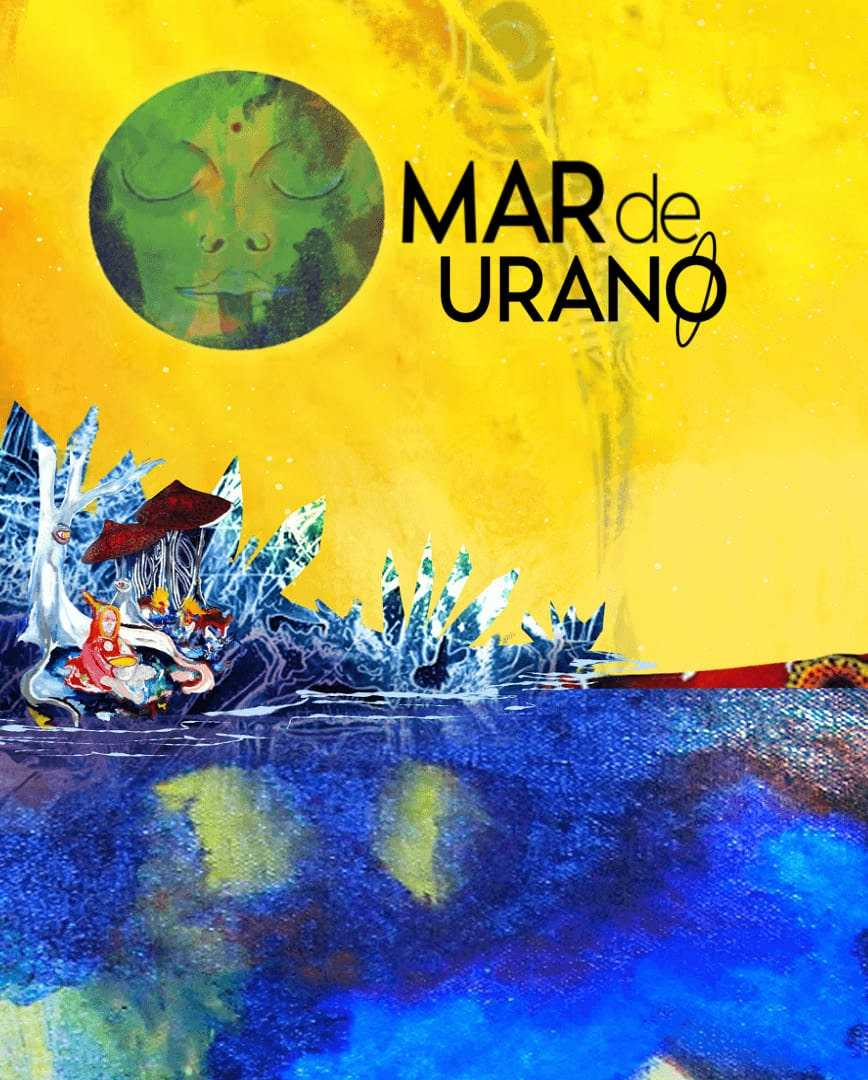
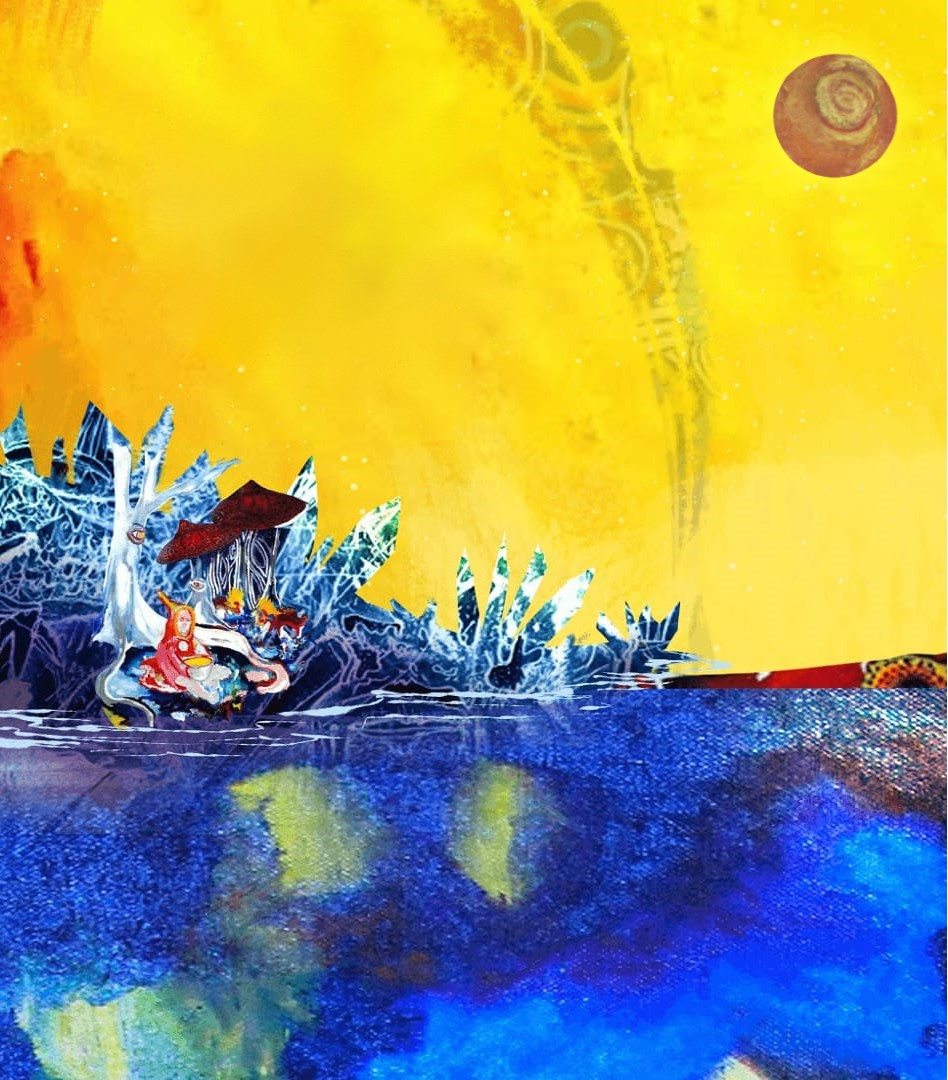
Cambios responsive landing

diff --git a/src/pages/index.js b/src/pages/index.js
@@ -17,6 +17,8 @@ export default function Index({ data }) {
   const diamonds = useMemo(() => get(landingPage, 'imageDiamonds.diamonds'));
   const imagesDiamonds = useMemo(() => get(landingPage, 'imageLandingArtDiamonds.images'));
 
+  // console.log(landingPage.landingLogoSmallWithWebP);
+
   // const supportedWebp = WebpIsSupported().then();
   const [supportedWebp, setSupportedWebp] = useState(false);
 
@@ -102,13 +104,14 @@ export default function Index({ data }) {
 
       <div className="landing-logo">
         <ImageRef src={images.landingLogo} alt="logo mar de urano" className="landing-logo-img" onLoad={onLoadImgages} onError={onLoadImgages} width="600" height="300" />
+        <ImageRef src={landingPage.landingLogoSmallWithWebP.webP.fluid.src} alt="logo mar de urano" className="landing-logo-small-img" onLoad={onLoadImgages} onError={onLoadImgages} />
       </div>
 
 
       <div className="link">
         {(promotion) &&
           <div className="promotion">
-            <ImageRef src={images.promotion} alt="instructions" className="promotion-img" onLoad={onLoadImgages} onError={onLoadImgages} width="300" height="208" />
+            <ImageRef src={images.promotion} alt="instructions" className="promotion-img" onLoad={onLoadImgages} onError={onLoadImgages} />
             <div className="arrow bounce">
               <i className="fa fa-arrow-down fa-2x"></i>
             </div>
@@ -285,6 +288,19 @@ query ImagesLanding {
           }
         }
         webP {
+          fluid(maxWidth: 500, quality: 100) {
+            src
+          }
+        }
+      }
+
+      landingLogoSmallWithWebP {
+        webP {
+          fluid(maxWidth: 400, quality: 100) {
+            src
+          }
+        }
+        originalImage {
           fluid(maxWidth: 500, quality: 100) {
             src
           }

diff --git a/src/assets/scss/mardeurano.scss b/src/assets/scss/mardeurano.scss
@@ -174,6 +174,11 @@ body {
     height: 150px;
     width: 500px;
   }
+
+  &-small-img {
+    display: none;
+    max-width: 42vw;
+  }
 }
 
 .diamond {
@@ -714,7 +719,13 @@ body {
 
 @media screen and (max-width: 700px) {
   .landing-logo {
-    display: none;
+    top: 4vh;
+    &-img {
+      display: none;
+    }
+    &-small-img {
+      display: block;
+    }
   }
 
   .index {
@@ -773,6 +784,12 @@ body {
       width: 2.2rem;
     }
   }
+
+  .landing-logo {
+    &-small-img {
+      max-width: 52vw;
+    }
+  }
 }
 
 @media screen and (max-width: 400px) {
@@ -792,6 +809,12 @@ body {
     height: 56%;
     top: 44%;
     width: 100%;
+  }
+
+  .landing-logo {
+    &-small-img {
+      max-width: 56vw;
+    }
   }
 }
 
@@ -831,6 +854,14 @@ body {
 @media screen and (max-height: 530px) {
   .link {
     bottom: 10%;
+  }
+}
+
+@media (max-height: 490px) and (max-width: 350px) {
+  .landing-logo {
+    &-small-img {
+      max-width: 40vw;
+    }
   }
 }
 
@@ -877,6 +908,31 @@ body {
     &-img {
       height: 120px;
       width: 400px;
+    }
+  }
+}
+
+@media (max-height: 410px) and (max-width: 700px) {
+  .landing-logo {
+    top: 1%;
+    &-small-img {
+      max-width: 30vw;
+    }
+  }
+}
+
+@media (max-height: 360px) and (max-width: 700px) {
+  .landing-logo {
+    &-small-img {
+      max-width: 26vw;
+    }
+  }
+}
+
+@media (max-height: 470px) and (max-width: 450px) {
+  .landing-logo {
+    &-small-img {
+      max-width: 40vw;
     }
   }
 }
